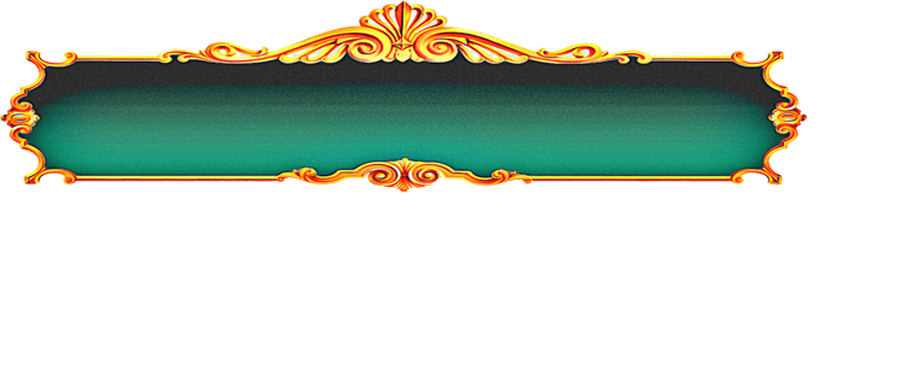
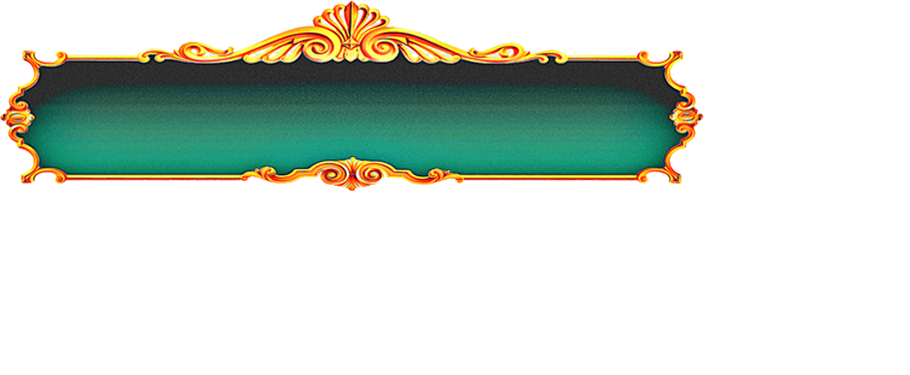
working on terminal

Changed region(s): [[0.0, 0.0, 0.8923, 0.528]]

diff --git a/rajshree_single_angular/src/app/pages/terminal/terminal.component.html b/rajshree_single_angular/src/app/pages/terminal/terminal.component.html
@@ -12,7 +12,7 @@
             <div class="col-3"></div>
             <div class="col-3" style="background-color: red; background-size: cover; color: white;">1</div>
             <div class="col-3"></div> -->
-            <table class="table " style=" text-align: center; background-color: rgba(255, 47, 144, 0.507);">
+            <table class="table mt-3" style=" text-align: center; background-color: rgba(255, 47, 144, 0.507);">
 
               <tbody>
                 <tr>
@@ -37,14 +37,14 @@
                 </tr>
               </tbody>
             </table>
-            <div class=" d-flex" style="height: 60px; border-radius: 10px;">
+            <div class=" d-flex mt-5" style="height: 40px; border-radius: 10px; ">
               <button style="font-size: 100%;   width: 50%;height: 145%;  border: 8px solid rgb(255, 255, 255); border-style: double;" class="btn btn-danger ml-1 btn-responsive" [routerLink]="['/terminalReport']">REPORT</button>
               <button class="btn btn-info ml-1 btn-responsive" id="print-button" style="font-size: 100%;   width: 50%;height: 145%;  border: 8px solid rgb(255, 255, 255); border-style: double;"
                       [printStyle]="{h1 : {'color': 'red'}, h2 : {'border': 'solid 3px'}}" printSectionId="print-section" ngxPrint>PRINT</button>
             </div>
             <div class="col-4" style="" >
               <div class="left-div" style="padding-top: ;" >
-               <span class="d-flex" style="padding-left: 25px; margin-top: 70px;" ><h4 style="font-weight: bolder; font-size: large; padding-top: 30px; padding-left: 150px;color: white;">{{totalTicketPurchased}}</h4></span>
+               <span class="d-flex" style="padding-left: 25px; margin-top: 40px;" ><h4 style="font-weight: bolder; font-size: large; padding-top: 30px; padding-left: 150px;color: white;">{{totalTicketPurchased}}</h4></span>
               </div>
             </div>
           </div>
@@ -54,7 +54,7 @@
 
         <div fxFlex="30">
           <div class="text-center" style="">
-            <div style="padding-top: 45px;text-align: center; background-repeat: no-repeat;min-height: 100px;font-weight: bold; ">
+            <div style="padding-top: 55px;text-align: center; background-repeat: no-repeat;min-height: 100px;font-weight: bold; ">
 
                 <ngx-wheel
                 #wheel
@@ -76,7 +76,7 @@
 
               >
             </ngx-wheel>
-            <div class="mt-5" style="text-align: center; margin-top: 23px !important; ">
+            <div class="mt-5" style="text-align: center; margin-top: 40px !important; ">
               <div class="d-flex" style="">
                 <div class="col-1"></div>
                 <div class="" style="border: 5px solid white; min-width: 85%;border-style: double; border-radius: 10px;">
@@ -92,10 +92,10 @@
 <!--                        *ngFor="let single of singleNumbers; let i=index" (click)="setGameInputSet(single,1,1)"-->
 <!--                        class="single-number-button-{{i}}" type="button">{{ single.singleNumber }}</button>-->
 <!--              </div>-->
-              <div style="padding-top: 15px; padding-right: 15px;">
+              <div style="padding-top: 35px; padding-right: 15px;">
                 <div class="d-flex" style="background-image: url('assets/images/number-background.png'); background-repeat: no-repeat;background-size: cover; padding-bottom: 20px;  width: 435px;
-                margin-left: %;padding-right: 20px;">
-                  <div class="chips-outer-div " style="padding-top: 8%; padding-left: 25%;">
+                margin-left:10%;padding-right: 20px;">
+                  <div class="chips-outer-div " style="padding-top: 8%; padding-left: 16%;">
                     <input *ngFor="let x of chips; let i= index" class="chips-button-{{i}}" [ngClass]="(selectedChip==x)?'selectedChipStyle':''" mat-fab value="bold" type="button" value="" (click)="changeChip(x)">
                   </div>
                 </div>
@@ -113,7 +113,7 @@
 
 
 
-        <div fxFlex="35" class=" ml-2 mt-5" style=" color: white; font-weight: bold;padding-top: 10px;">
+        <div fxFlex="35" class=" ml-2" style=" color: white; font-weight: bold;padding-top: 35px;">
           <div class="container right-container" >
             <table class="" >
               <thead >
@@ -147,9 +147,14 @@
 
             </tbody>
           </table>
-          <div class=" d-flex" style="height: 40px; border-radius: 10px;text-align: center; padding-left: 100px;">
-            <button style="font-size: 100%; width: 50%;text-align: center; border: 8px solid rgb(255, 255, 255);border-style: double;" class="btn btn-lg  btn-responsive btn-primary">INFO</button>
-            <button (click)="resetMatrixValue()" style="font-size: 100%;  width: 50%;  border: 8px solid rgb(253, 253, 253); border-style: double;" class="btn btn-success ml-1 btn-responsive">CLEAR</button>
+          <!-- <div class=" d-flex" style="height: 60px; border-radius: 10px;">
+            <button style="font-size: 100%;   width: 50%;height: 145%;  border: 8px solid rgb(255, 255, 255); border-style: double;" class="btn btn-lg  btn-responsive btn-primary">INFO</button>
+            <button class="btn btn-success ml-1 btn-responsive"  style="font-size: 100%;   width: 50%;height: 145%;  border: 8px solid rgb(255, 255, 255); border-style: double;"
+                      (click)="resetMatrixValue()">CLEAR</button>
+          </div> -->
+          <div class="d-flex mt-5" style="height: 60px; border-radius: 10px; padding-left: 100px;">
+            <button style="font-size: 100%; width: 50%;text-align: center; border: 8px solid rgb(255, 255, 255);border-style: double; height: 145%;" class="btn btn-lg  btn-responsive btn-primary">INFO</button>
+            <button (click)="resetMatrixValue()" style="font-size: 100%;  width: 50%;  border: 8px solid rgb(253, 253, 253); border-style: double; height: 145%;" class="btn btn-success ml-1 btn-responsive">CLEAR</button>
           </div>
           <!-- <div class=" d-flex" style="height: 60px; border-radius: 10px;padding-top: 20px; padding-left: 97px;">
             <button style="font-size: 100%;   width: 50%;height: 145%;  border: 8px solid rgb(255, 255, 255); border-style: double;" class="btn btn-danger ml-1 btn-responsive" [routerLink]="['/terminalReport']">REPORT</button>

diff --git a/rajshree_single_angular/src/app/pages/terminal/terminal.component.ts b/rajshree_single_angular/src/app/pages/terminal/terminal.component.ts
@@ -60,7 +60,7 @@ export class TerminalComponent implements OnInit {
   customInput: number;
 
   columnNumber = 5;
-  columnNumber2 = 10;
+  columnNumber2 = 8;
   columnNumber3 = 1;
 
   public activeTripleContainerValue = 0;

diff --git a/rajshree_single_angular/src/app/pages/terminal/terminal.component.scss b/rajshree_single_angular/src/app/pages/terminal/terminal.component.scss
@@ -602,7 +602,7 @@ span .mat-fab .mat-button-wrapper {
 
 .current-result{
   color: white;
-  font-size: 26px;
+  font-size: 16px;
 }
 
 .result-heading{
